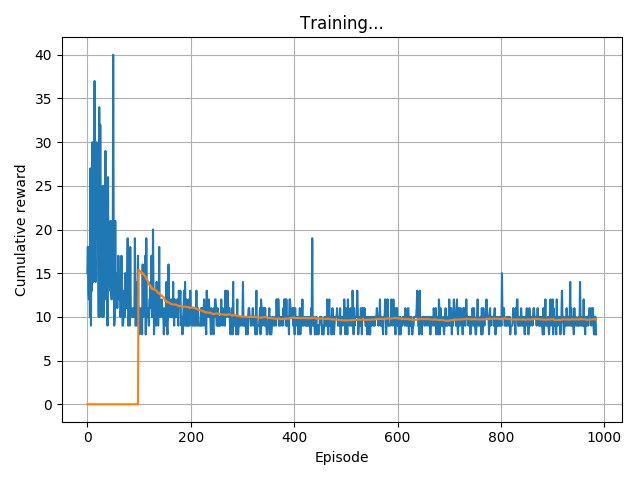
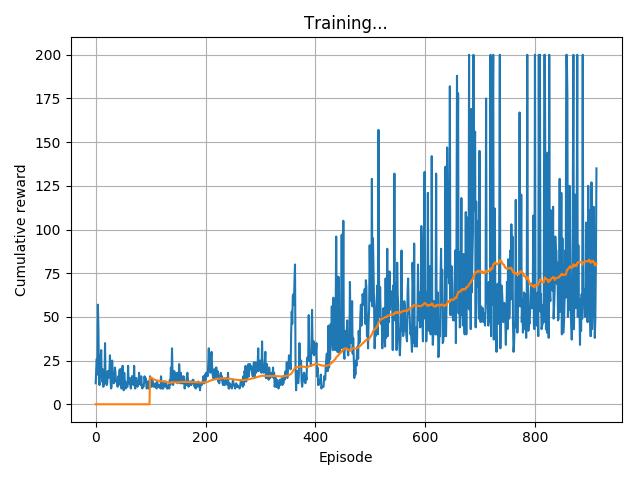
Week 4 Task 2, working on plotting the policy

diff --git a/Week4/main.py b/Week4/main.py
@@ -1,5 +1,6 @@
 import gym
 from matplotlib import pyplot as plt
+import seaborn as sb
 from rbf_agent import Agent as RBFAgent  # Use for Tasks 1-3
 from utils import plot_rewards
 
@@ -47,8 +48,10 @@ agent = RBFAgent(n_actions)
 
 # Training loop
 cumulative_rewards = []
+policy = []
 for ep in range(num_episodes):
     # Initialize the environment and state
+    policy = []
     state = env.reset()
     done = False
     eps = glie_a/(glie_a+ep)
@@ -56,14 +59,15 @@ for ep in range(num_episodes):
     while not done:
         # Select and perform an action
         action = agent.get_action(state, eps)
+        policy.append((state, action))
         next_state, reward, done, _ = env.step(action)
         cum_reward += reward
 
         # Task 1: TODO: Update the Q-values -- DONE
-        # agent.single_update(state, action, next_state, reward, done)
-        # Task 2: TODO: Store transition and batch-update Q-values
-        agent.store_transition(state, action, next_state, reward, done)
-        agent.update_estimator()
+        agent.single_update(state, action, next_state, reward, done)
+        # Task 2: TODO: Store transition and batch-update Q-values -- DONE
+        # agent.store_transition(state, action, next_state, reward, done)
+        # agent.update_estimator()
         # Task 4: Update the DQN
 
         # Move to the next state

diff --git a/Week4/rbf_agent.py b/Week4/rbf_agent.py
@@ -49,9 +49,9 @@ class Agent(object):
         if len(state.shape) == 1:
             state = state.reshape(1, -1)
         # Task 1a: TODO: Use (s, abs(s)) as features -- DONE
-        # return np.concatenate((state, abs(state)), axis=1)
+        return np.concatenate((state, abs(state)), axis=1)
         # Task 1b: TODO: Use RBF features -- DONE
-        return self.featurizer.transform(self.scaler.transform(state))
+        # return self.featurizer.transform(self.scaler.transform(state))
 
     def get_action(self, state, epsilon=0.0):
         if np.random.random() < epsilon:
